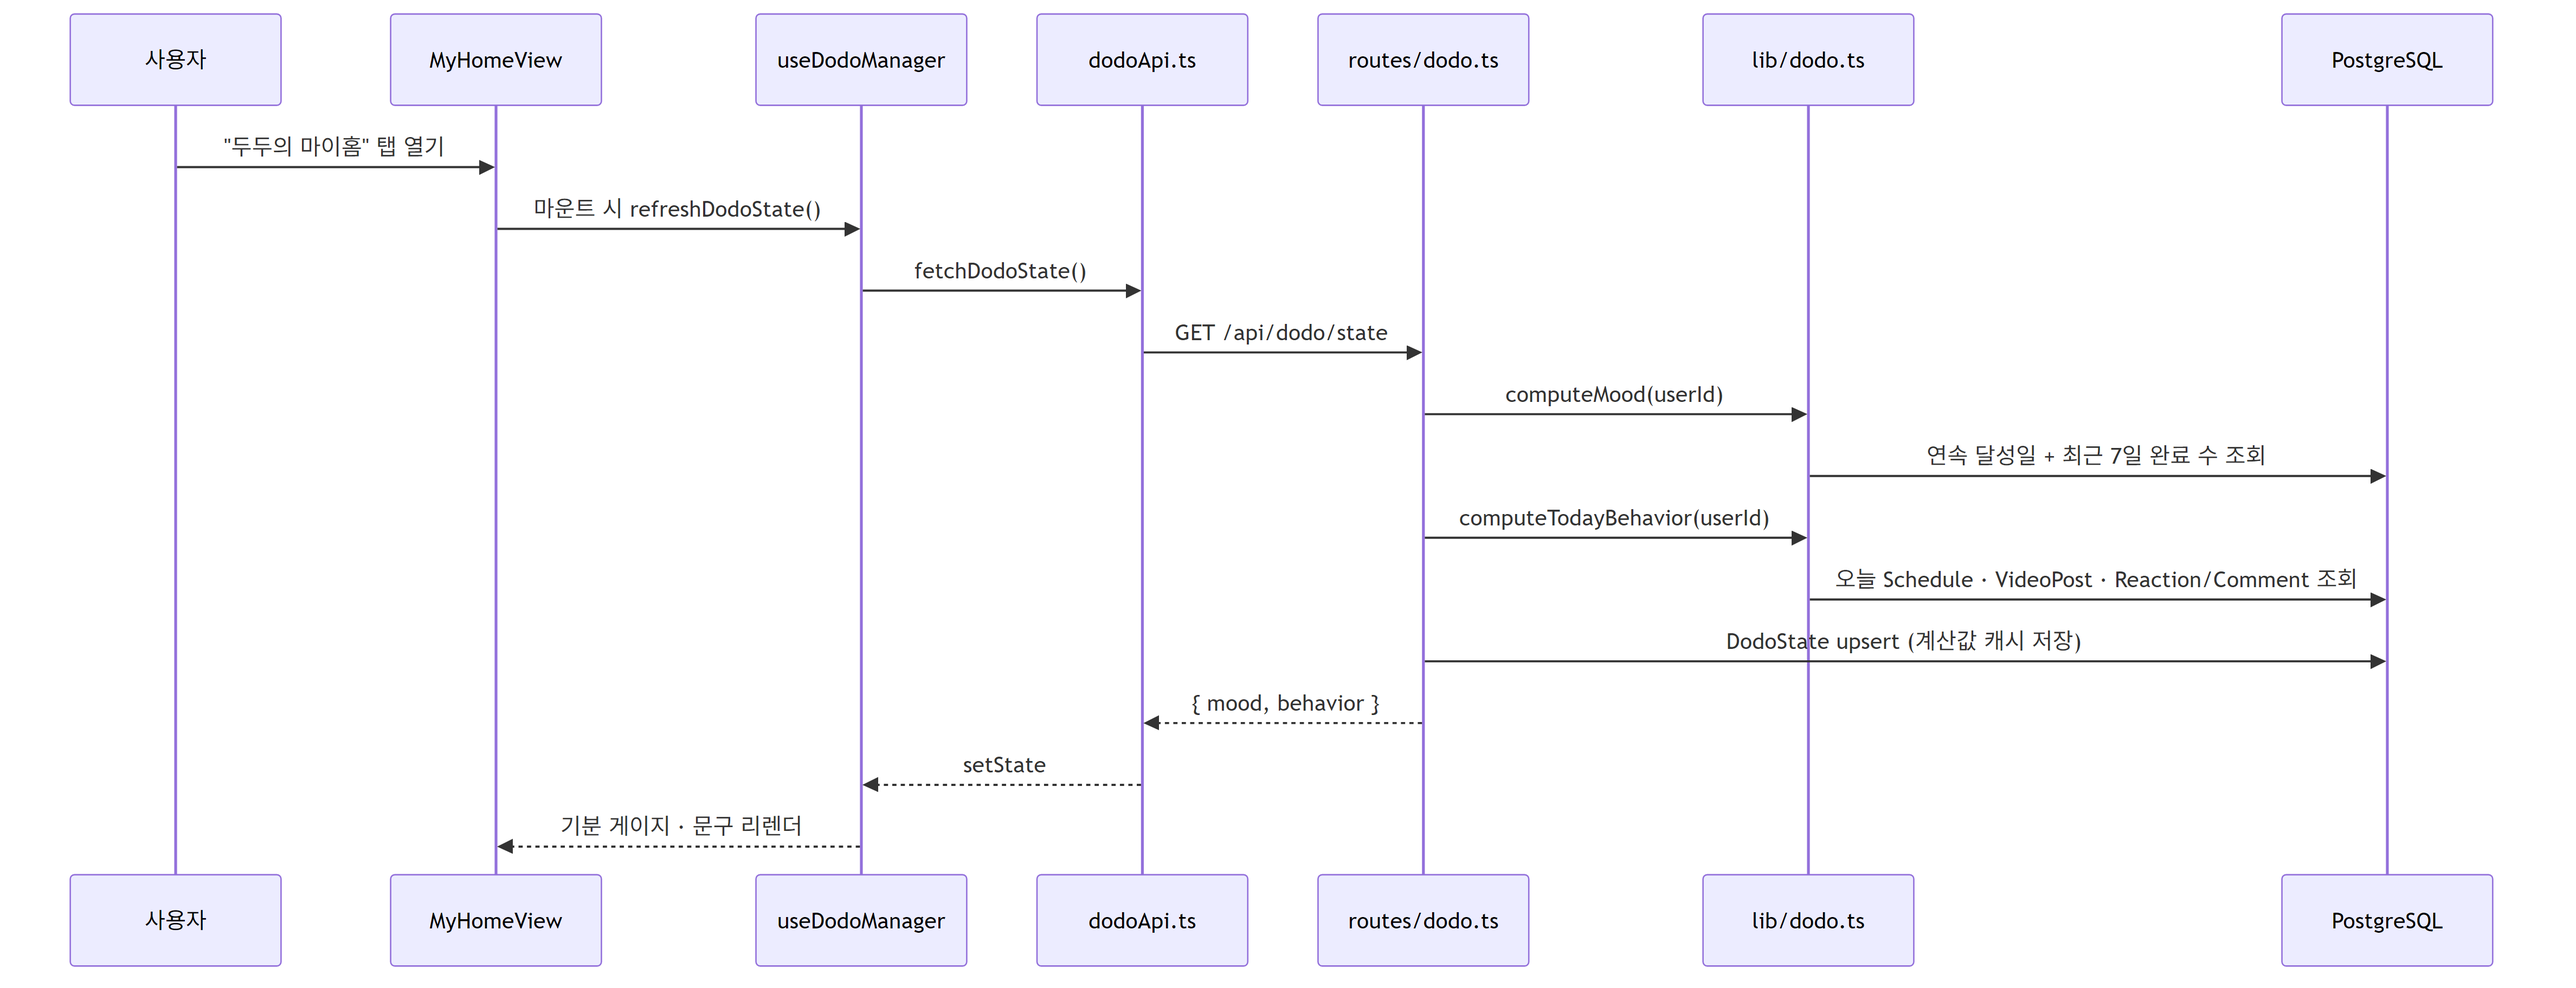
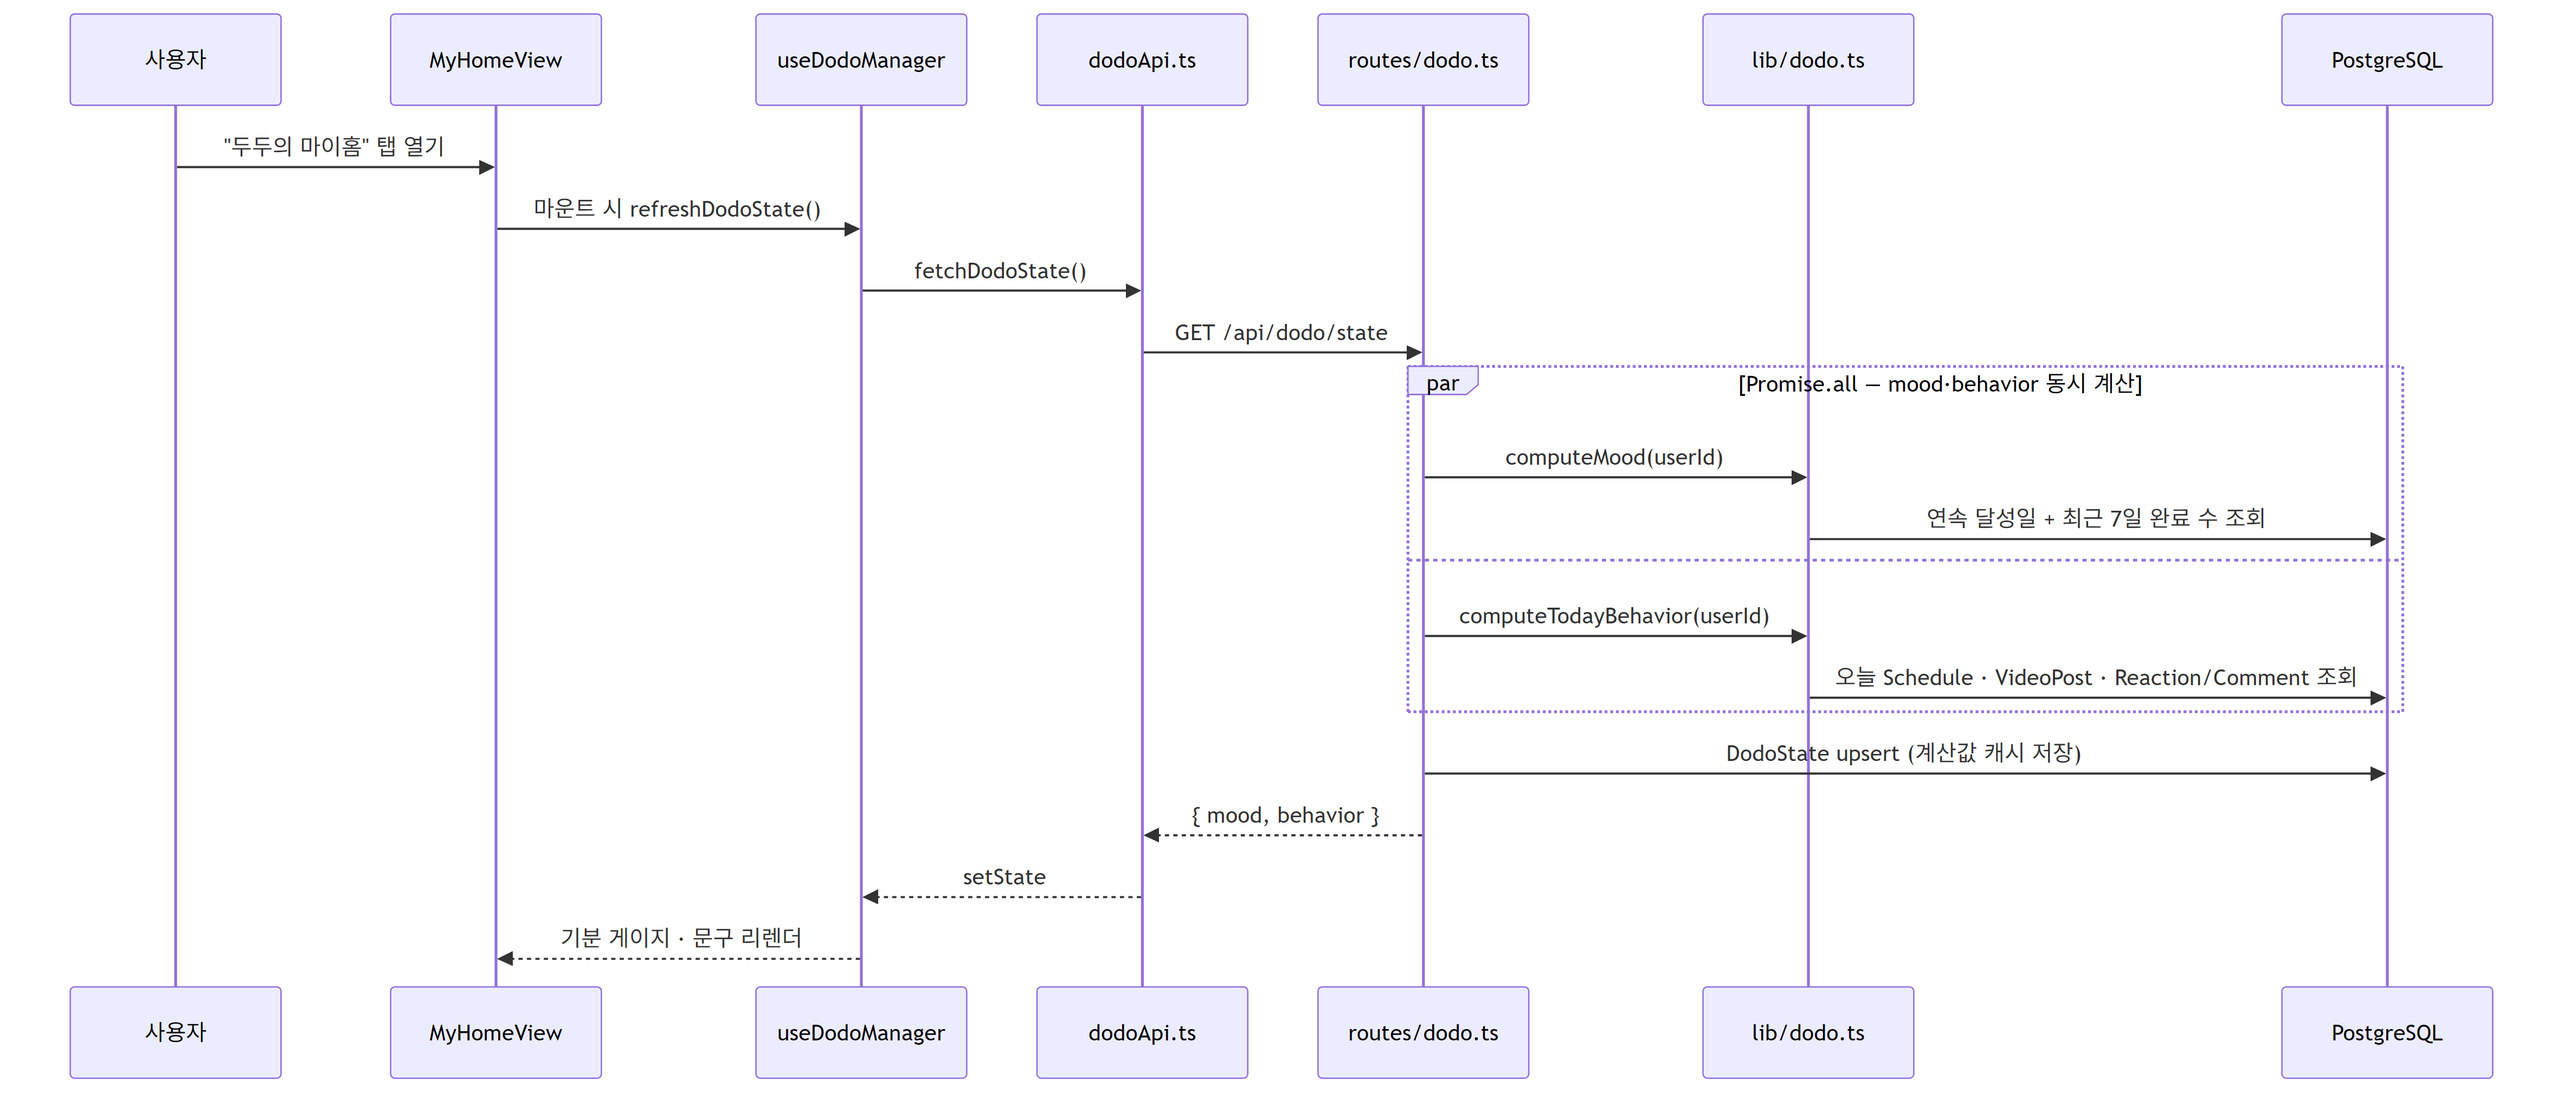
fix: 두두 데이터 흐름 다이어그램 오류 수정 + 마이홈 탭 재조회 버그 수정
- 다이어그램: refreshDodoState 대상 참여자 오류, computeMood/
  computeTodayBehavior와 upsertDailyDiary 내부 쿼리의 병렬 실행을
  순차처럼 그린 부분, 일정 완료·친구 반응 트리거 경로 누락을 수정
- 코드: useDodoManager가 Scheduler 최상위에서 단 한 번만 마운트돼
  마이홈 탭을 열 때마다 재조회되지 않던 문제를, MyHomeView 마운트
  시점에 refreshDodoState()를 호출하도록 고쳐 해결 (시간 경과로
  바뀌는 마감 임박 등의 behavior가 실제로 반영되게 함)

diff --git a/src/components/scheduler/StaticViews.tsx b/src/components/scheduler/StaticViews.tsx
@@ -33,10 +33,13 @@ type MyHomeViewProps = {
 
 export function MyHomeView({ message, onInteract, homeManager, dodoManager, points }: MyHomeViewProps) {
   const { visits, visitsLoading, markVisitsRead } = homeManager
+  const { refreshDodoState } = dodoManager
   const mood = dodoManager.state?.mood ?? 3
 
   useEffect(() => {
     markVisitsRead()
+    // 탭을 나갔다 다시 들어올 때마다 마운트되므로, 그 사이 시간이 지나 바뀐 mood·behavior(마감 임박 등)를 여기서 다시 받아온다.
+    refreshDodoState()
     // eslint-disable-next-line react-hooks/exhaustive-deps
   }, [])
 

diff --git a/README.md b/README.md
@@ -29,19 +29,19 @@
 
 ## 두두 mood·일기 알고리즘 데이터 흐름
 
-화면 컴포넌트가 훅/API 모듈을 거쳐 서버 라우트를 부르고, 라우트는 `lib/`의 순수 로직에 계산을 맡긴 뒤 그 로직이 직접 DB를 읽고 씁니다. (이미지 클릭 시 원본 크기로 볼 수 있습니다.)
+화면 컴포넌트가 훅/API 모듈을 거쳐 서버 라우트를 부르고, 라우트는 `lib/`의 순수 로직에 계산을 맡긴 뒤 그 로직이 직접 DB를 읽고 씁니다. 두두 상태 재조회는 영상 인증뿐 아니라 **일정 완료**(`CalendarView`)와 **친구 반응**(`FriendsView`)에서도 프론트가 명시적으로 트리거합니다. (이미지 클릭 시 원본 크기로 볼 수 있습니다.)
 
 [![두두 알고리즘 전체 구조](./docs/dodo-flow-overview.png)](./docs/dodo-flow-overview.png)
 
 ### 흐름 1 — 영상 인증이 오늘의 일기를 만든다
 
-`videos.ts`의 `POST /` 핸들러는 영상을 DB에 저장한 뒤 `upsertDailyDiary`를 **await 없이(fire-and-forget)** 호출합니다. 영상 업로드 자체는 일기 생성 성공 여부와 무관하게 바로 응답합니다.
+`videos.ts`의 `POST /` 핸들러는 영상을 DB에 저장한 뒤 `upsertDailyDiary`를 **await 없이(fire-and-forget)** 호출합니다. 영상 업로드 자체는 일기 생성 성공 여부와 무관하게 바로 응답합니다. `upsertDailyDiary` 내부에서 대표 영상 조회 이후 나머지 4개 쿼리는 `Promise.all`로 동시에 실행됩니다.
 
 [![흐름 1: 영상 인증 → 일기 생성](./docs/dodo-flow-1-certify.png)](./docs/dodo-flow-1-certify.png)
 
 ### 흐름 2 — 마이홈을 열면 mood·행동을 다시 계산한다
 
-`DodoState`는 캐시일 뿐, 응답값은 매번 그 자리에서 새로 계산됩니다. 저장은 "다음에 볼 때 참고용"이지 신뢰의 원천이 아닙니다.
+`DodoState`는 캐시일 뿐, 응답값은 매번 그 자리에서 새로 계산됩니다. 저장은 "다음에 볼 때 참고용"이지 신뢰의 원천이 아닙니다. `computeMood`와 `computeTodayBehavior`도 `Promise.all`로 동시에 실행됩니다. `MyHomeView`는 탭을 나갔다 들어올 때마다 새로 마운트되므로, 그때마다 `refreshDodoState()`가 다시 호출돼 시간 경과로 바뀐 상태(마감 임박 등)를 반영합니다.
 
 [![흐름 2: 마이홈 진입 → mood·behavior 조회](./docs/dodo-flow-2-myhome.png)](./docs/dodo-flow-2-myhome.png)
 
